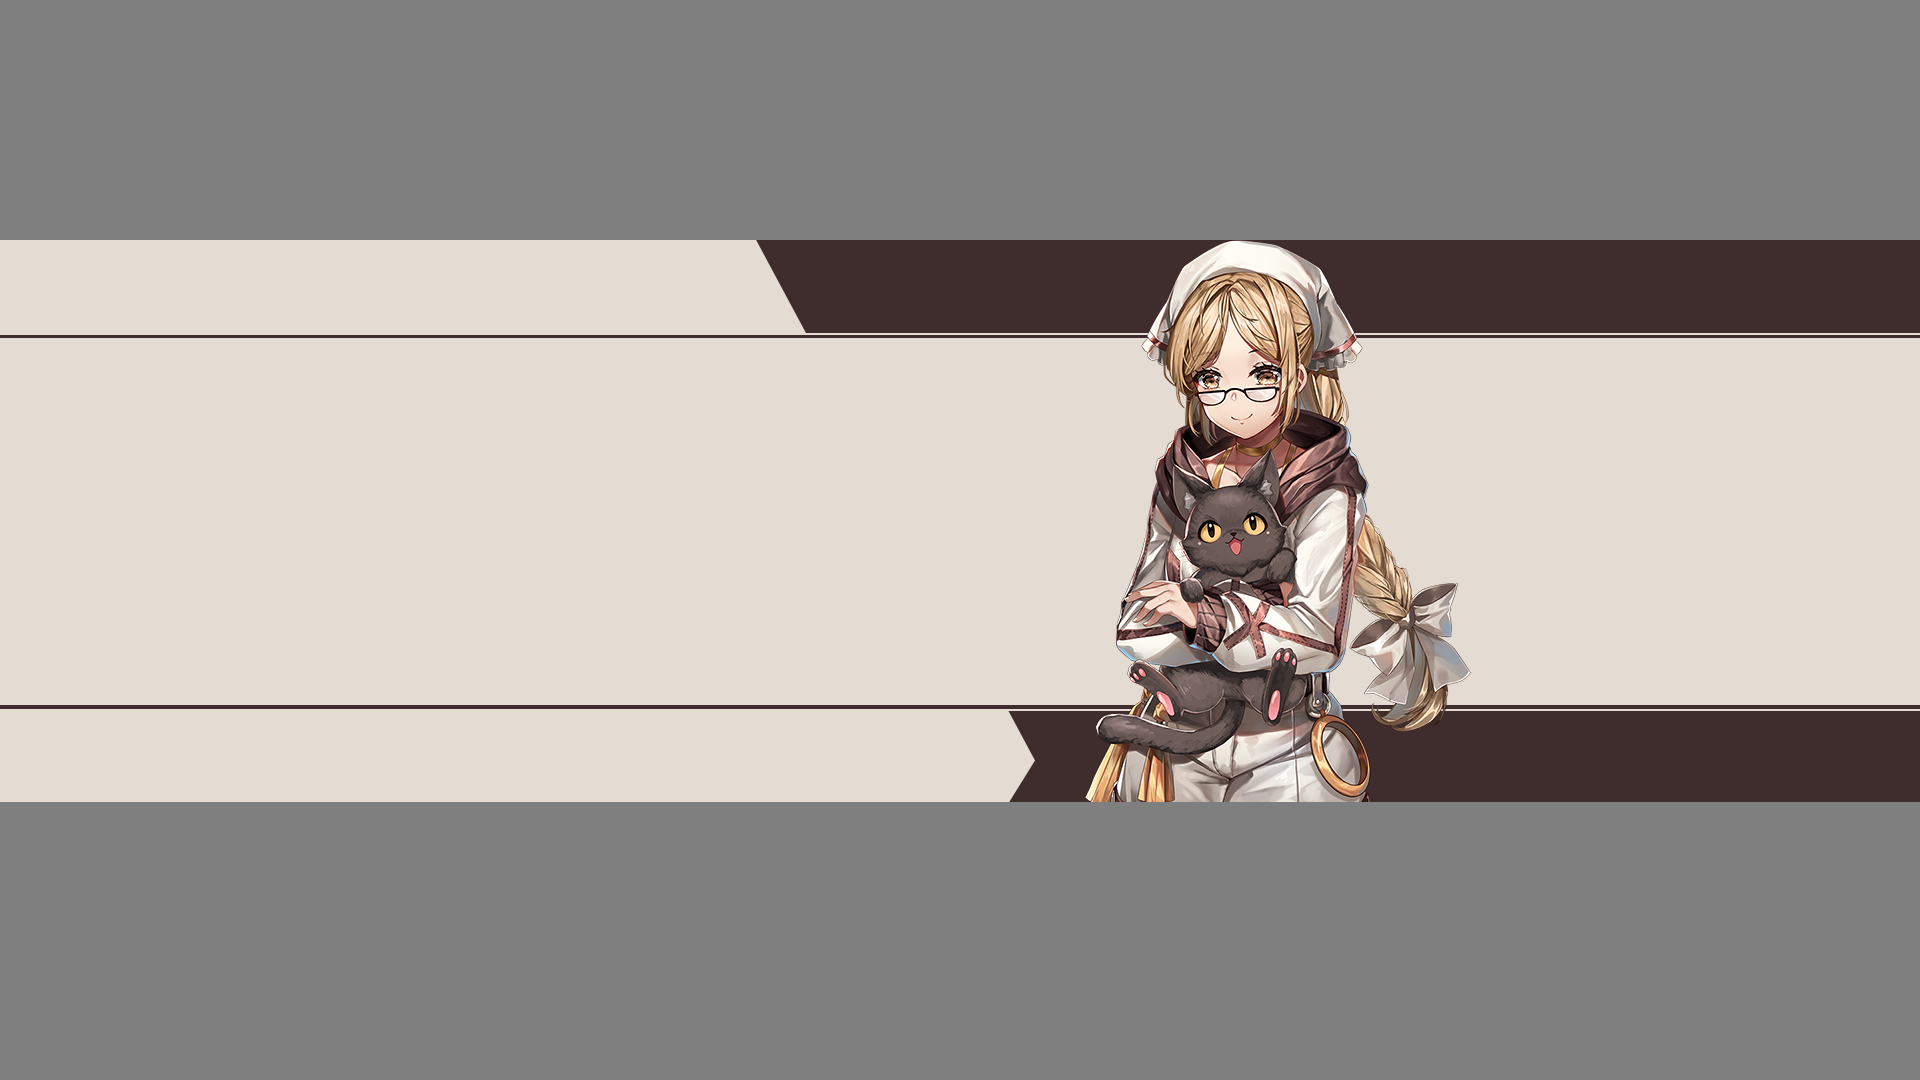
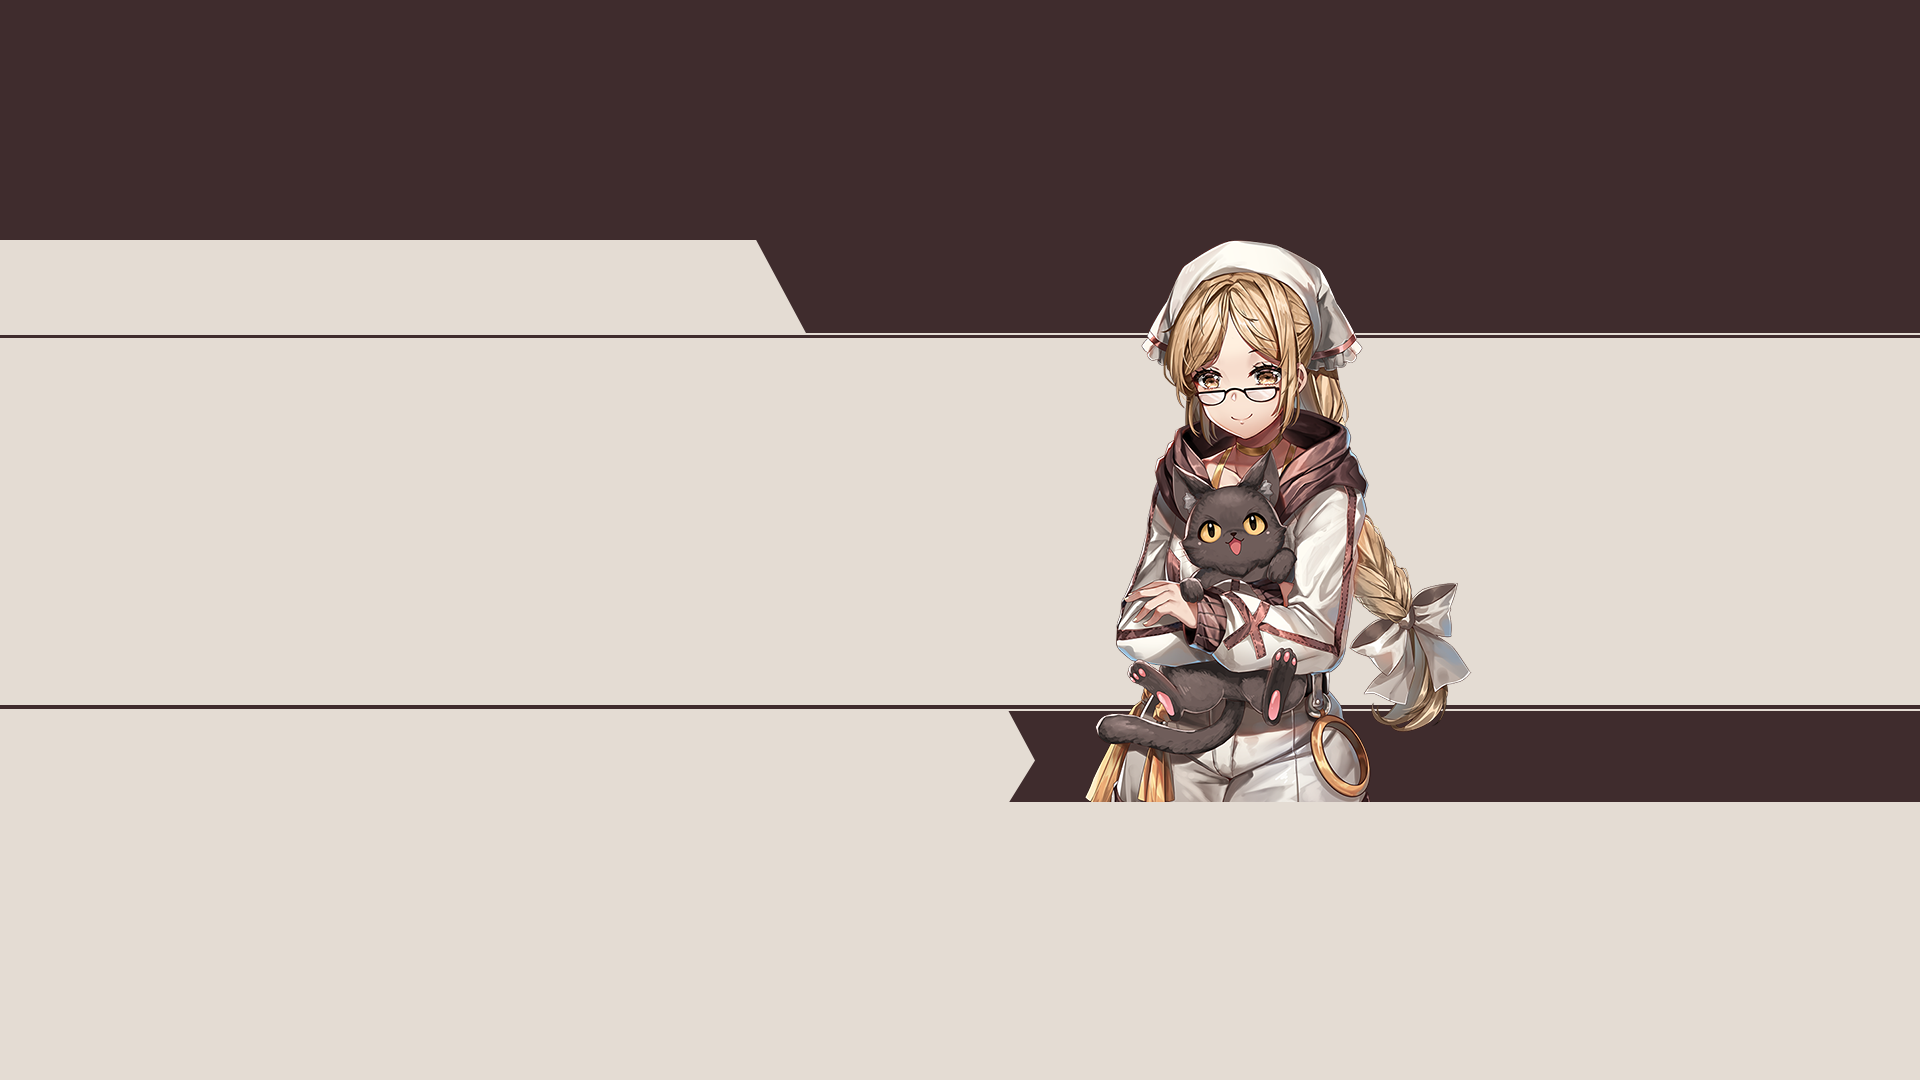
improved responsive design for background and calculator

diff --git a/styles.css b/styles.css
@@ -3,12 +3,10 @@
 }
 
 body {
-    background-color: darkgray;
-    background-image: url("background.png");
-    background-position: 40% 18%;
-    background-repeat: no-repeat;
+    background-color: #e4dcd3;
     color: white;
     font-family: Verdana, Arial, Helvetica, sans-serif;
+    margin: 0px;
 }
 
 input[type="number"] {
@@ -22,11 +20,21 @@ select option:disabled {
     text-align: center;
 }
 
+.art {
+    background-color: #e4dcd3;
+    background-image: url("background.png");
+    background-position: center;
+    background-repeat: no-repeat;
+    position: absolute;
+    height: 100%;
+    width: 100%;
+}
+
 .content {
     background-color: gray;
     left: 5%;
     position: absolute;
-    top: 35%;
+    top: calc(50% - 100px);
     width: 675px;
 }
 

diff --git a/index.html b/index.html
@@ -6,6 +6,7 @@
         <script type="text/javascript" src="script.js"></script>
     </head>
     <body>
+        <div class="art"></div>
         <div class="content">
             <div class="header">
                 <div class="header-item logo"><img alt="NovaRO logo" width="150px" src="logo.png"></div>
